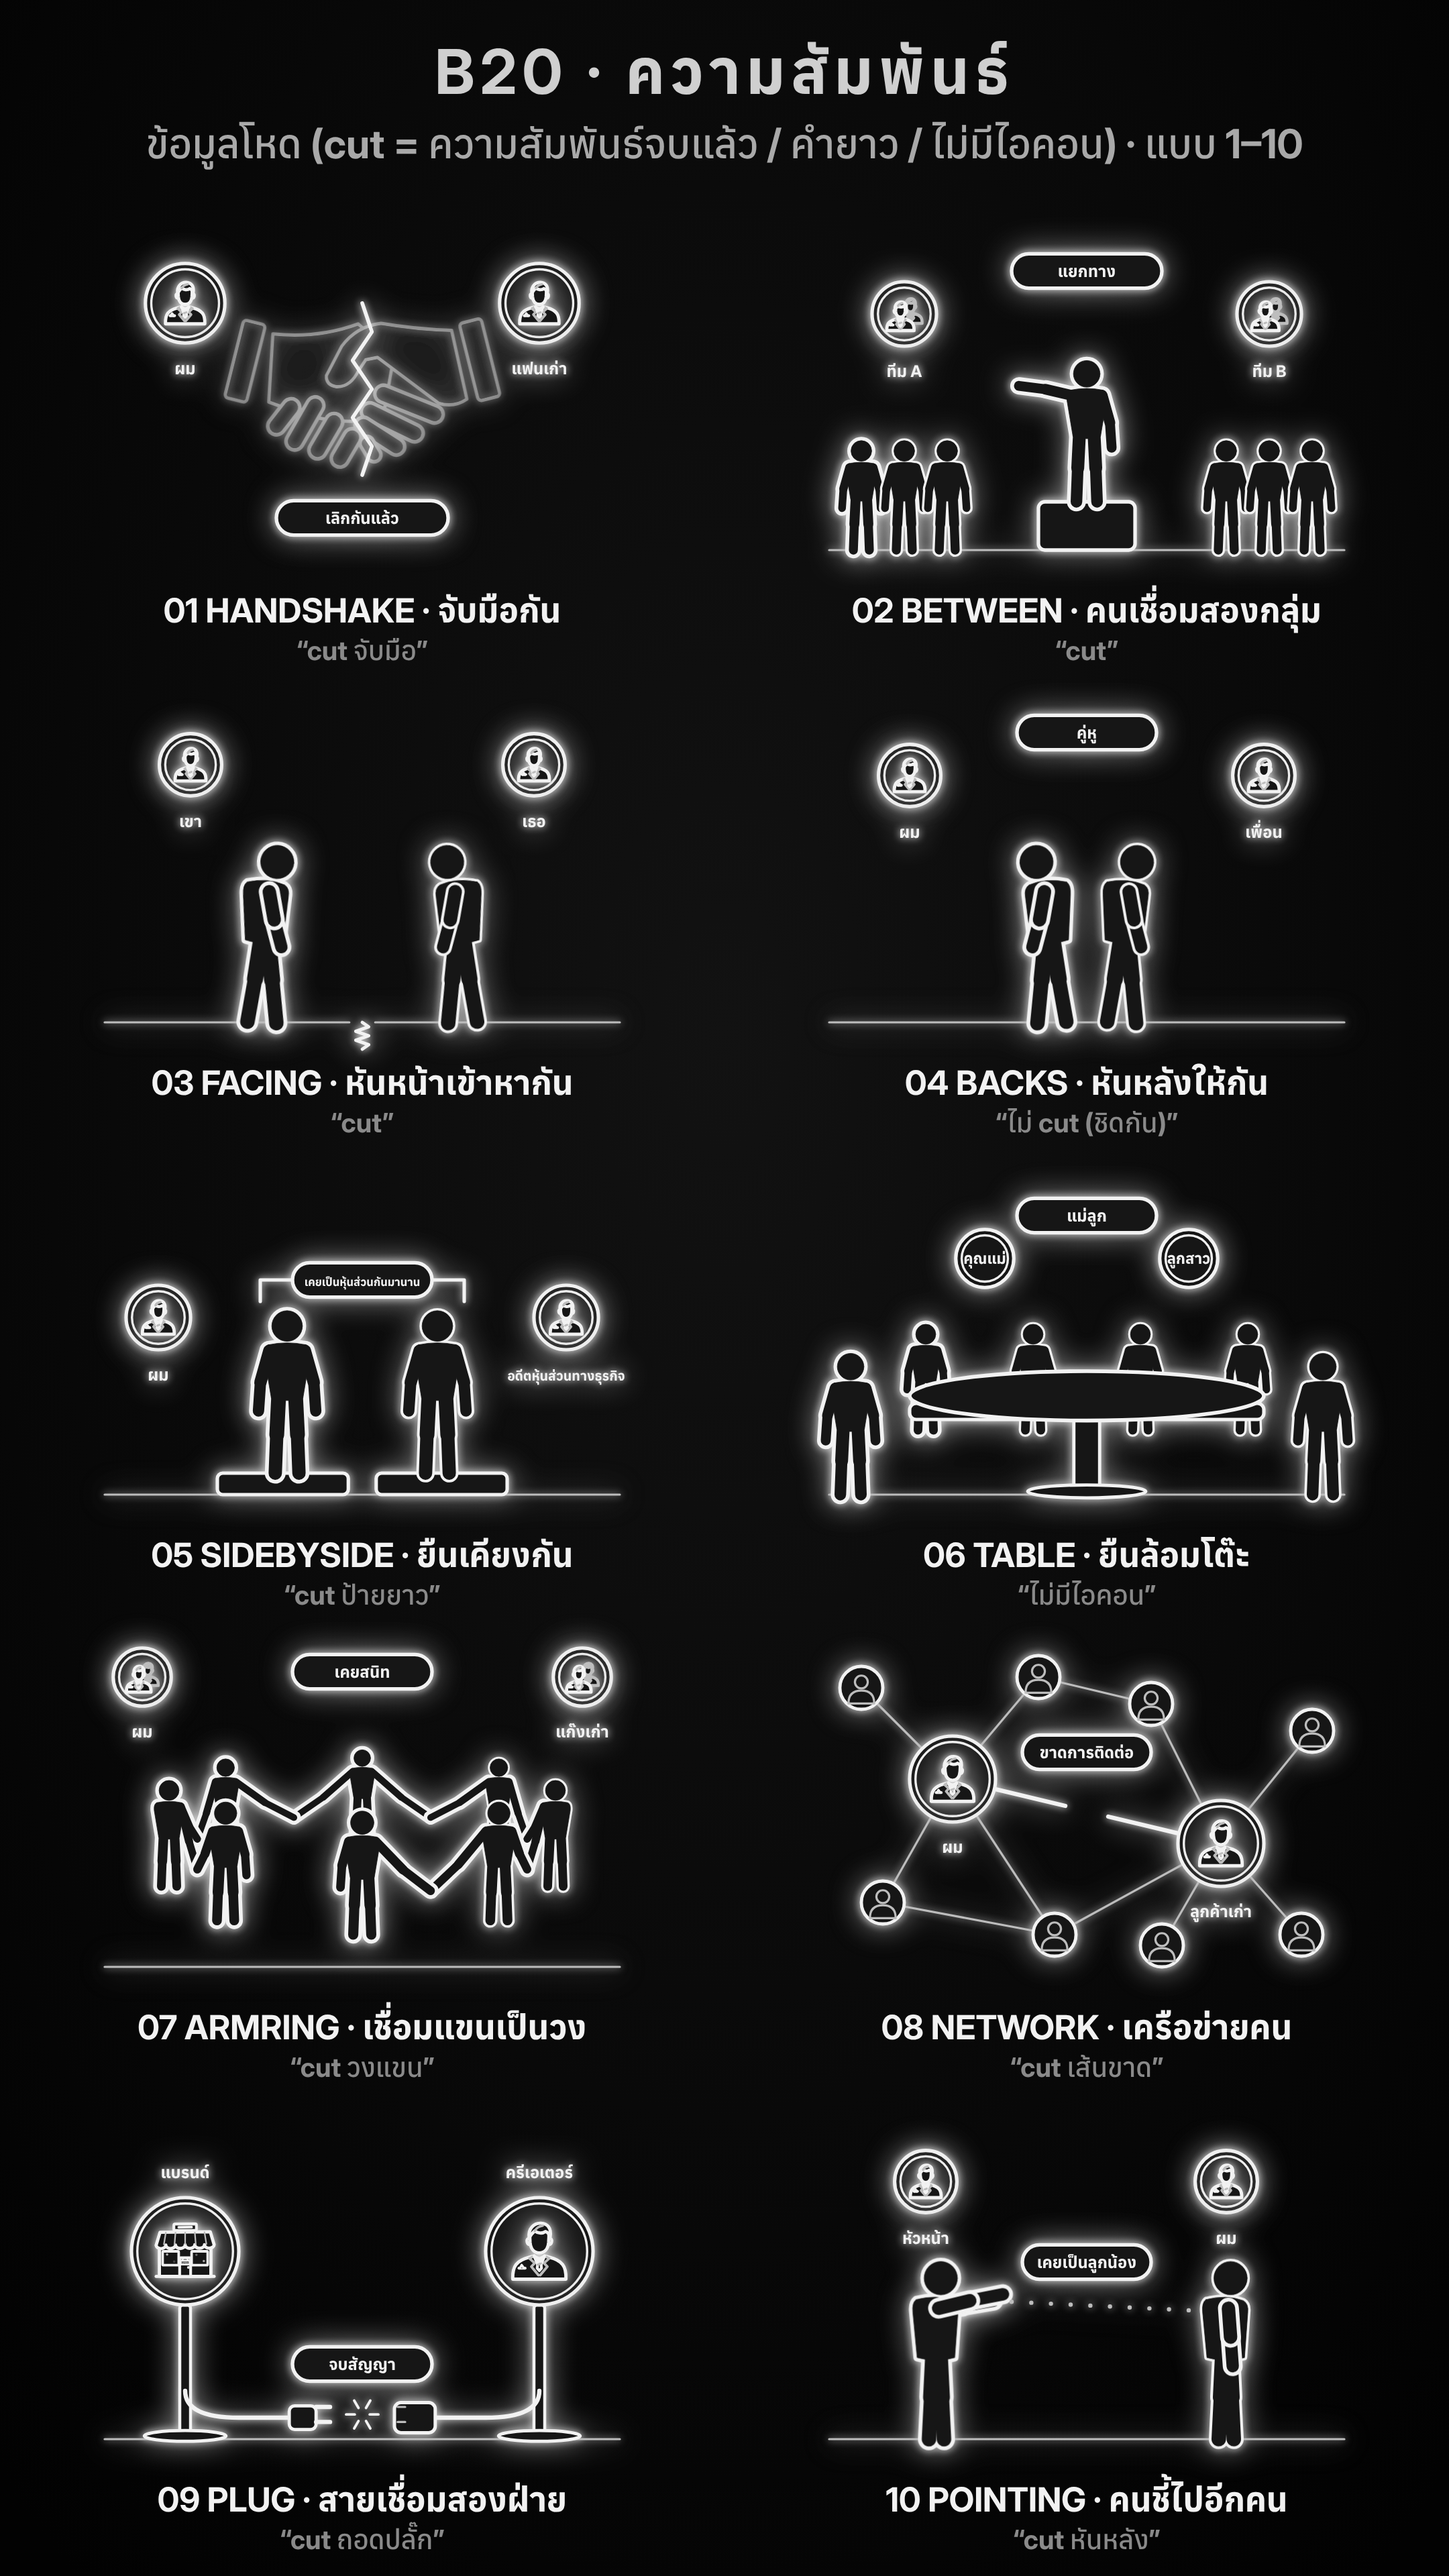
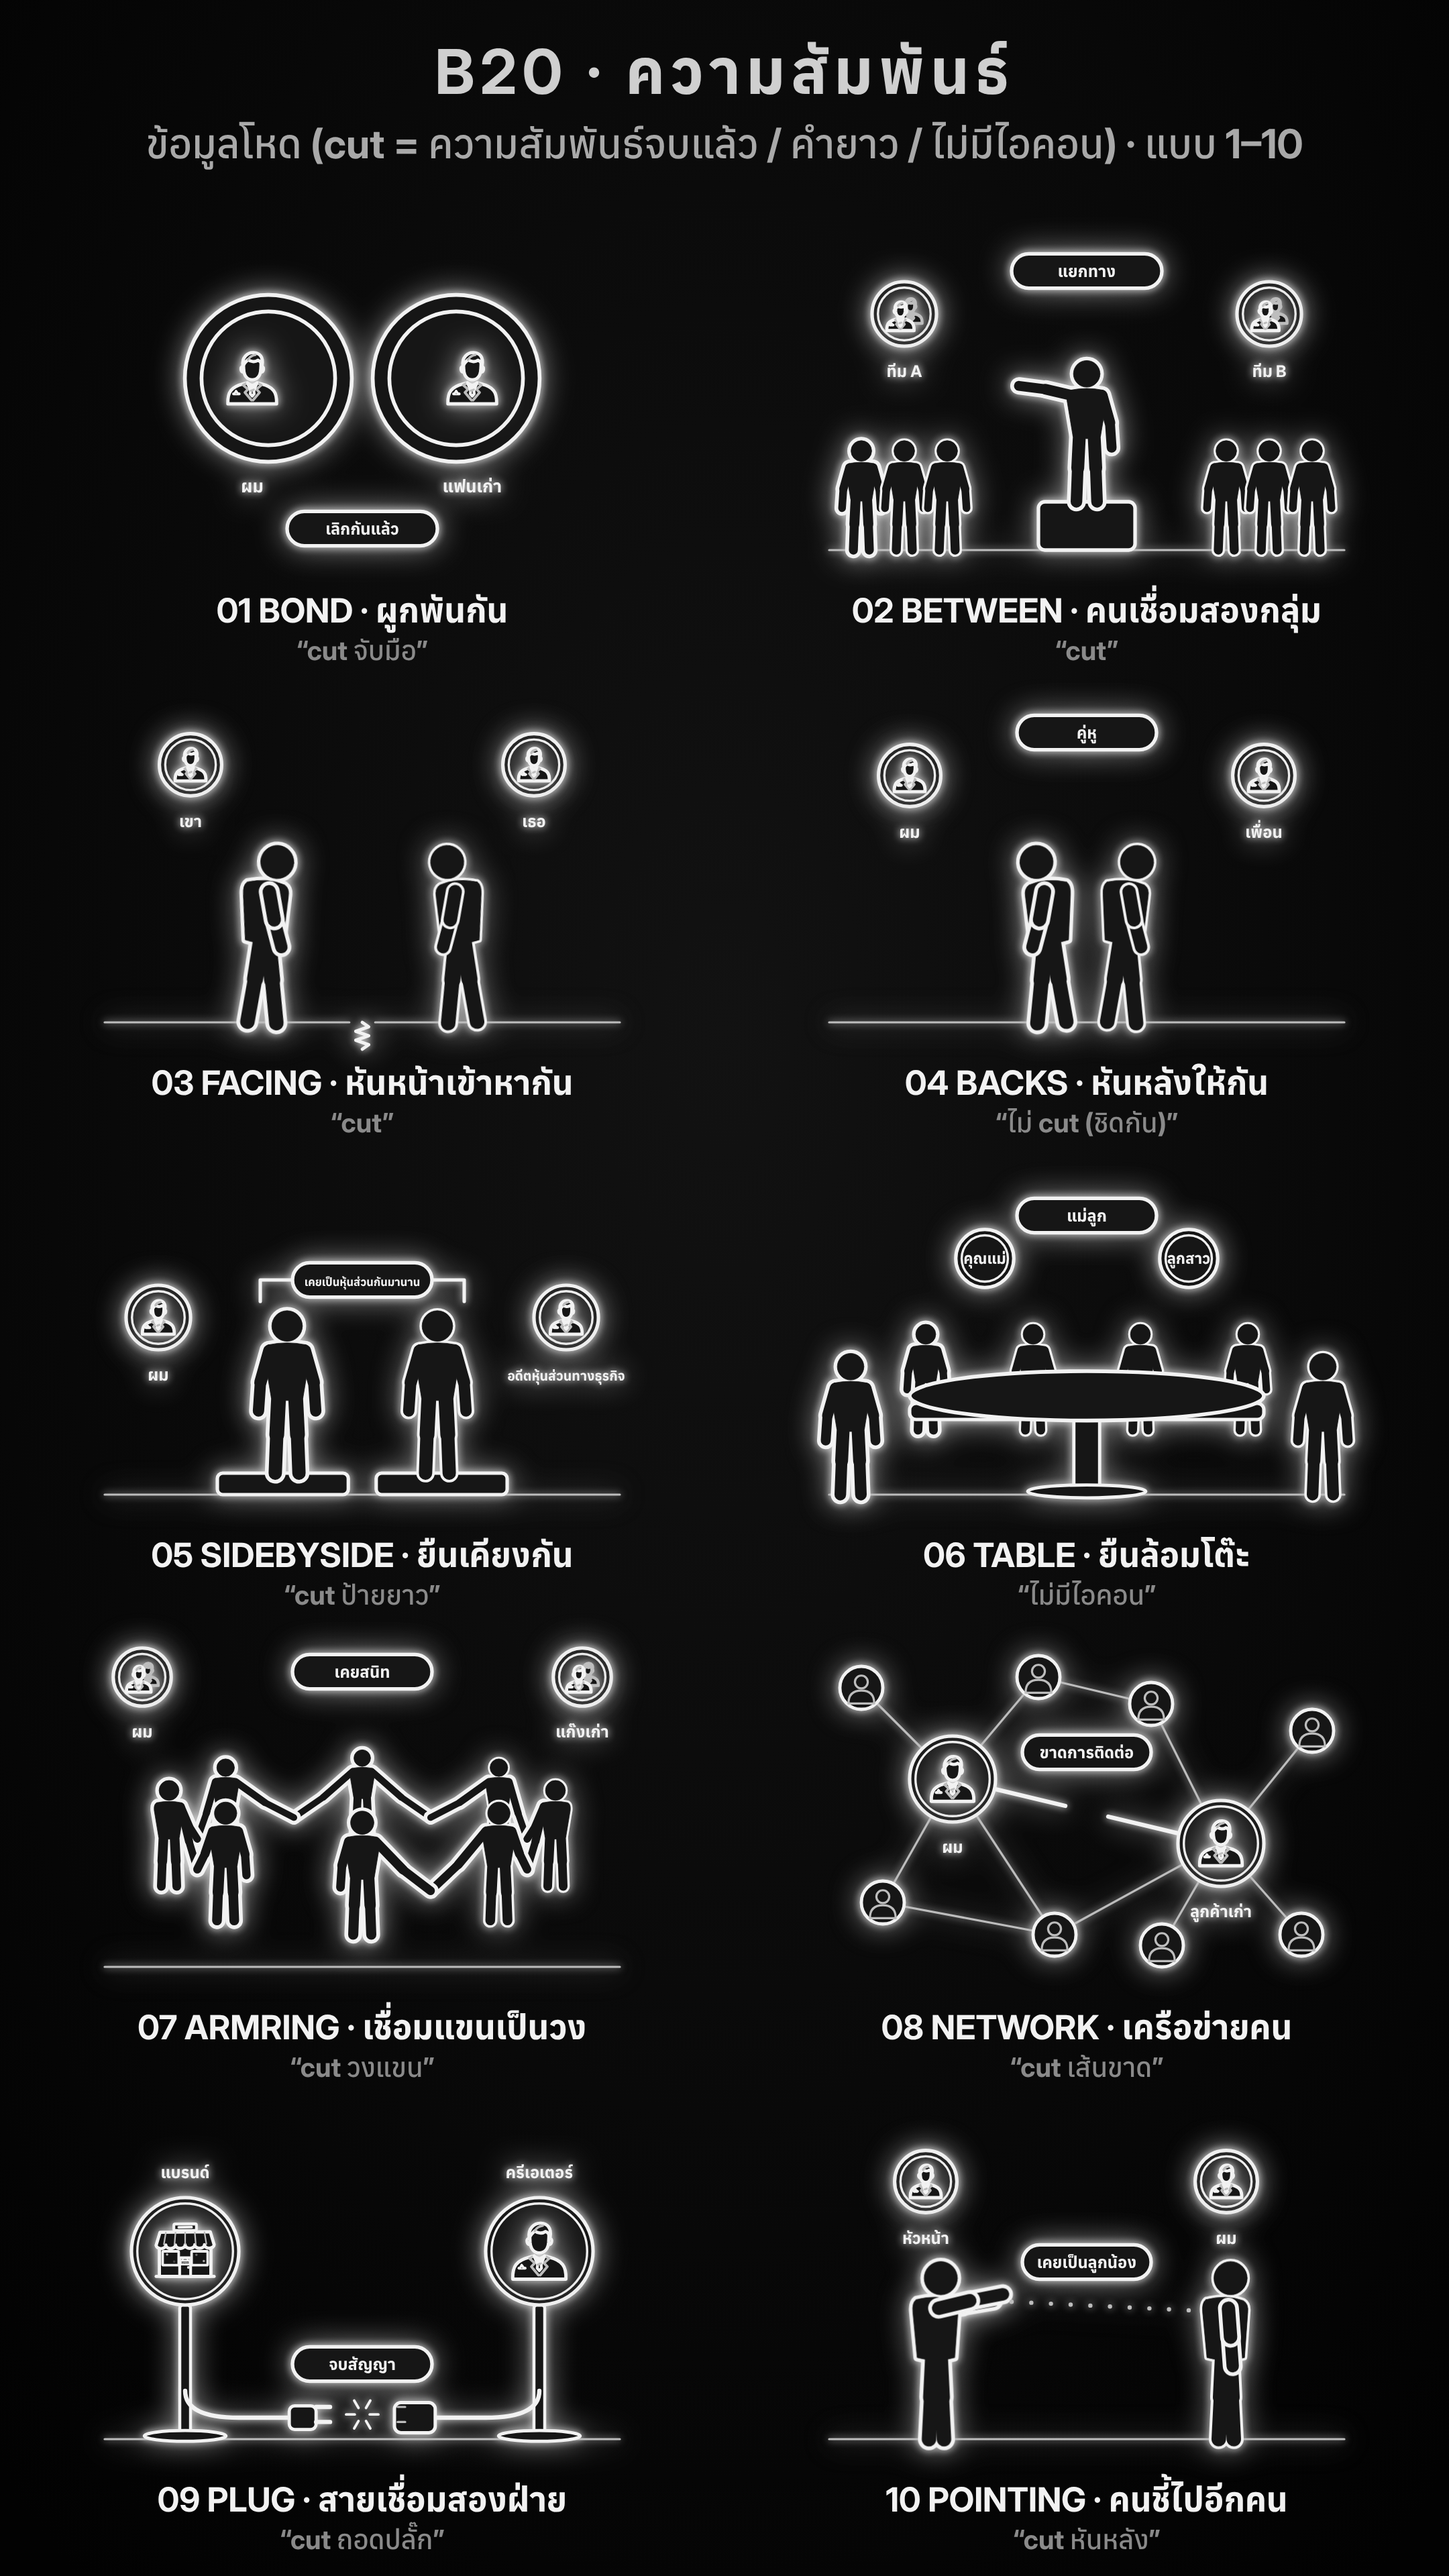
glow-line-motion: B20 01 = linked rings (user picked B); sheets A1/B1 re-rendered
Claude-Session: https://claude.ai/code/session_014abtgvC2GiMGSLFvH5iQXg

Changed region(s): [[0.0931, 0.0938, 0.4032, 0.25]]

diff --git a/.claude/skills/glow-line-motion/examples/b20/b20.js b/.claude/skills/glow-line-motion/examples/b20/b20.js
@@ -277,7 +277,7 @@
      'cups' two cups clink. cut → untied / unlinked / apart. */
   const ringT = (q, x, y, r, w) => { q.circle(x, y, r, { sw: w + 7 }); q.circle(x, y, r, { sw: w, stroke: C.fill }); };
   const arcT = (q, x, y, r, a0, a1, w) => { const P = a => f1(x + r * Math.cos(rad(a))) + ' ' + f1(y + r * Math.sin(rad(a))), d = `M ${P(a0)} A ${r} ${r} 0 0 1 ${P(a1)}`; q.path(d, { sw: w + 7 }); q.path(d, { sw: w, stroke: C.fill }); };
-  let BS = 'knot';
+  let BS = 'rings';
 
   /* 01 ── THE BOND (คนสองคนจับมือกัน — no hands): knot · rings · cups (d.bs or BS); the link's name lands under it */
   variant('bond', 'ผูกพันกัน', (d, c) => { const A = PA(d), B = PB(d), cut = CUT(d), Q = TL(), st = d.bs || BS;
@@ -289,7 +289,7 @@
       else if (st === 'rings') { const ox = cut ? 175 : 100, r = 140, y = -30, g = inG(p, 'pop', 0, y, tu(.2));
         [-1, 1].forEach(sd => g.circle(sd * ox, y, r, { fill: C.fill, sw: 0, stroke: 'none' })); ringT(g, -ox, y, r, 24); ringT(g, ox, y, r, 24); if (!cut) arcT(g, -ox, y, r, -48, -8, 24);
         [[A, -1, tA(Q)], [B, 1, tB(Q)]].forEach(([X, sd, t]) => { const x = sd * (ox + 30); if (!X) { DOT(popAt(p, x, y, t), x, y, 8); return; }
-          if (picOf(X)) { put(p, c, { icon: X.icon }, x, y, 110, null, { t, punch: t + tu(.16) }); if (X.label) txt(atG(p, t + tu(.12)), X.label, x, y + r + 50, { size: 32, maxW: 240, weight: 700, color: C.ink }); }
+          if (picOf(X)) { put(p, c, { icon: X.icon }, x, y, 110, null, { t, punch: t + tu(.16) }); if (X.label) txt(atG(p, t + tu(.12)), X.label, x, y + r + 72, { size: 32, maxW: 240, weight: 700, color: C.ink }); }
           else txt(popAt(p, x, y, t), X.label, x, y + 10, { size: 34, maxW: 150, weight: 800, color: C.ink, wrap: 'mid' }); });
         link(p, LB(d), 0, 250, 280); }
       else { const bx = cut ? 230 : 135, tl = cut ? 0 : 16;

diff --git a/.claude/skills/glow-line-motion/HANDOFF.md b/.claude/skills/glow-line-motion/HANDOFF.md
@@ -14,7 +14,8 @@
 - **จับมือ → ไม่วาดมือเลย (รวมถึงสัญลักษณ์มือ):** ผู้ใช้ส่งรูปไอคอนจับมือ + "เริ่ม" → รอบแรกไล่พิกัดจากรูป (= ลอก) → ผู้ใช้ "ไม่เหมือน copy reference มากเกินไปใช่ไหม" →
   วาดใหม่ 3 แบบ (ก้อนเดียว/ถุงมือ/แขนเสื้อห่วง) → ผู้ใช้ **"ไม่เหมือนเลย … ลองเอาแบบเป็นอย่างอื่นแทนที่ไม่ใช่มือ ผมรู้สึกว่าคุณวาดอวัยวะคนได้ไม่ดีเลย"** →
   ลบโค้ดมือทิ้งหมด. แบบ 01 = `bond`: A `knot` เชือกสองฝั่งผูกเงื่อน · B `rings` ห่วงของสองฝ่ายคล้องกัน · C `cups` แก้วสองใบชนกัน (`d.bs` / ค่าเริ่ม `BS`).
-  ภาพเทียบ `motion/glow-line-cats/b20/bond-ABC.png` (แผ่น `examples/b20/compare-bond.html`) — **รอผู้ใช้เลือก** แล้วตั้ง `BS` + render แผ่น A1/B1 ใหม่.
+  ภาพเทียบ `motion/glow-line-cats/b20/bond-ABC.png` (แผ่น `examples/b20/compare-bond.html`) → **ผู้ใช้เลือก B (`rings`)** → `BS = 'rings'`, แผ่น A1/B1 ทำใหม่แล้ว.
+  แบบ 20 แบบที่เหลือยังรอผู้ใช้เลือก/แก้ หรือสั่ง "ทำเคลื่อนไหวได้".
   **บทเรียน: อย่าวาดอวัยวะ/มือแม้ผู้ใช้ส่งรูปมา — เสนอสิ่งของแทน และห้ามไล่พิกัดจากรูปผู้ใช้.**
 - ขั้นตอนต่อ (เหมือน B19): "ทำเคลื่อนไหวได้" → ท่าขยับ (ภาพจบ = ภาพนิ่ง) → check_timing B20 + strips + dense → วิดีโอ → รอ "ผ่าน" → approved + README. ถัดไป B21 "สถานที่".
 
@@ -82,10 +83,10 @@
 - ช่อง: `a` THING · `b` THING · `label` คำที่พูด (ไม่บังคับ) · `cut` true = ความสัมพันธ์จบแล้ว. `PA` `PB` `LB` `CUT` · `party()` แผ่นกลมไอคอน + ป้ายใต้ (`ly` = ระยะ, ติดลบ = ไว้บนแผ่น;
   `label:false` แล้ววางป้ายเอง) · `link()` ป้ายเม็ดยาชื่อความสัมพันธ์ (ไม่มี → วงคลื่น) ลงตรงคำสำคัญ · `mir()` กลับด้านคน · `crack()` `bust()` `caps()` · `handshake()` · `STEP`/`LEANF` คนข้างเอนไปข้างหน้า
   (คนข้างยืนตรงดูไม่ออกว่าหันทางไหน — ต้องเอน/ก้าว). `tA` `tB` = จังหวะ a/b.
-- **cut ทุกแบบมีวิธีแสดงของตัวเอง** (ข้อมูลโหด B1/B2 ส่วนใหญ่ cut): จับมือจาง + รอยแตก · แขนข้างหนึ่งลง · พื้นแยก · ยืนห่าง + เส้นประ · แท่น/วงเล็บแยก · โต๊ะร้าว · วงแขนขาดหนึ่งช่อง ·
+- **cut ทุกแบบมีวิธีแสดงของตัวเอง** (ข้อมูลโหด B1/B2 ส่วนใหญ่ cut): ห่วงแยกออกจากกัน · แขนข้างหนึ่งลง · พื้นแยก · ยืนห่าง + เส้นประ · แท่น/วงเล็บแยก · โต๊ะร้าว · วงแขนขาดหนึ่งช่อง ·
   เส้นหนาขาด · ปลั๊กหลุด + ประกาย · อีกคนหันหลัง · เส้นผังขาด · แขนลง ยืนห่าง · กระดานหักสองท่อน · วงเล็กออกนอกวงใหญ่ · กล่องตกพื้น · เชือกขาดกลาง · นั่งหันออก · ป้ายแตกครึ่งห้อย ·
   วงกลมแยกไม่ซ้อน · กรอบแยกสองซีก.
-- 20 แบบ (ไอเดียผู้ใช้ 20 ข้อตามลำดับ): 01 handshake · 02 between คนบนแท่นกางแขนเชื่อมสองกลุ่ม · 03 facing · 04 backs · 05 sidebyside แท่นเดียว + วงเล็บ · 06 table ·
+- 20 แบบ (ไอเดียผู้ใช้ 20 ข้อตามลำดับ): 01 bond ห่วงสองวงคล้องกัน (แทนจับมือ) · 02 between คนบนแท่นกางแขนเชื่อมสองกลุ่ม · 03 facing · 04 backs · 05 sidebyside แท่นเดียว + วงเล็บ · 06 table ·
   07 armring วงคนเชื่อมแขน (แขนคำนวณไปจุดกึ่งกลางของคนข้าง ๆ) · 08 network · 09 plug สายสองเส้น ปลั๊กเสียบเต้า · 10 pointing · 11 familytree · 12 reach + ประกายตรงช่องว่าง ·
   13 seesaw · 14 nested · 15 give ส่งกล่อง · 16 rope คนชูแขนถือเชือกจาก a ถึง b · 17 talk นั่งบนกำแพงเตี้ย + คลื่นเสียง · 18 pairsign ป้าย a—label—b + สองคนใต้ป้าย · 19 venn · 20 frame.
 - เลี่ยงซ้ำ: ไม่ใช้โต๊ะคาเฟ่ (มีแล้ว) สะพาน. แก้ระหว่างทำ: ป้ายใต้แผ่นชิดขอบ → ระยะ 58 · 03/04 ดูไม่ออกว่าหันทางไหน → `STEP`/`LEANF` · 06/07 แผ่นทับหัวคน → ขยับขึ้น ·
